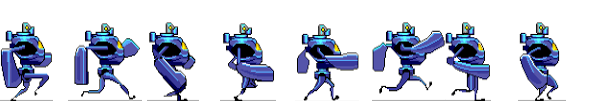
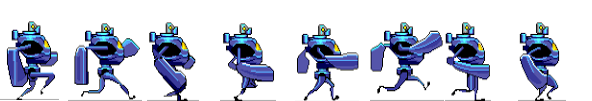
remove comments and change sprite dimensions

Changed region(s): [[0.0, 0.2079, 0.1216, 1.0], [0.6081, 0.2079, 0.7601, 0.9208]]

diff --git a/cmpsc488/botbattleapp/nodejs_applications/static/javascript/classes.js b/cmpsc488/botbattleapp/nodejs_applications/static/javascript/classes.js
@@ -201,15 +201,15 @@ var GameBoard = function(readyCallback) {
     							self.player2StartY, 
     							self.robotWidth, 
     							self.robotHeight, null, null, null, false, imageLoadedCallback),
-    player3 : new drawableImage('static/images/RunningRight.png', 
+    player1Running : new drawableImage('static/images/RunningRight.png', 
     							0, 
     							self.player1StandingSpriteSheetY, 
-    							563, 
+    							592, 
     							self.robotHeight, 
     							self.player1StartX, 
     							self.player1StartY - 100, 
     							74, 
-    							self.robotHeight, null, 15, 8, true, imageLoadedCallback),
+    							self.robotHeight, null, 8, 8, true, imageLoadedCallback),
     /*myRectangle: new drawableRectangle(120, 200, 100, 50, 5)*/
   }
   
@@ -260,7 +260,6 @@ function Animator(gameboard) {
   var animations = {
     move : function(moveEvent, lastUpdateTime, callback) {
       backgroundAnimations();
-      //console.log(gameboard.drawableObjects[moveEvent.objectName]);
       var drawableObject = gameboard.drawableObjects[moveEvent.objectName];
       var time;
       var done;
@@ -280,7 +279,6 @@ function Animator(gameboard) {
           animations.move(moveEvent, time, callback);
         });
       } else {
-        //console.log('animation of', moveEvent, 'complete!')
         callback();
       }
     },
@@ -290,19 +288,14 @@ function Animator(gameboard) {
         var time;
         
         var endX = moveEvent.endingX;
-        //console.log("endx " + endX);
         moveEvent.endingX = drawableObject.x;
-        //console.log("endingx " + moveEvent.endingX);
         
         moveEvent.event = 'move';
         
         animations.move(moveEvent, (new Date()).getTime(), function(){
         	moveEvent.endingX = endX;
-        	//console.log("Moved up");
         	animations.move(moveEvent, (new Date()).getTime(),function(){
         		moveEvent.endingY = drawableObject.y + 100;
-        		//console.log("moved Over");
-        		//console.log("New endingy is " + moveEvent.endingY);
         		animations.move(moveEvent, (new Date()).getTime() , callback)
         	})
         });
@@ -316,15 +309,12 @@ function Animator(gameboard) {
         var time;
         
         var endX = moveEvent.endingX;
-        //console.log("endx " + endX);
         moveEvent.endingX = drawableObject.x;
-        //console.log("endingx " + moveEvent.endingX);
         
         moveEvent.event = 'move';
         
         animations.move(moveEvent, (new Date()).getTime(), function(){
         	moveEvent.endingX = endX;
-        	//console.log("Moved up");
         	animations.move(moveEvent, (new Date()).getTime(),function(){
         		moveEvent.endingY = drawableObject.y + 100;
         		animations.move(moveEvent, (new Date()).getTime() , callback)
@@ -427,7 +417,6 @@ function Animator(gameboard) {
   var updateXPositionLinearlyWithTime = function(drawableObject, moveEvent, lastUpdateTime, speed) {
       var time = (new Date()).getTime();
       var timeDiff = time - lastUpdateTime;
-      //console.log('inUpdateXPosition', drawableObject, moveEvent);
       var backwards = moveEvent.endingX - drawableObject.x < 0;
       
       // pixels / second
@@ -440,8 +429,6 @@ function Animator(gameboard) {
       } else if (!backwards && drawableObject.x >= moveEvent.endingX) {
         drawableObject.x = moveEvent.endingX;
       }
-
-      //console.log('moved rectangle', drawableObject.x);
 
       return time;
     }
@@ -458,7 +445,6 @@ function Animator(gameboard) {
   var updateYPositionLinearlyWithTime = function(drawableObject, moveEvent, lastUpdateTime, speed) {
       var time = (new Date()).getTime();
       var timeDiff = time - lastUpdateTime;
-      //console.log('inUpdateXPosition', drawableObject, moveEvent);
       var up = moveEvent.endingY - drawableObject.y < 0;
       
       // pixels / second
@@ -471,8 +457,6 @@ function Animator(gameboard) {
       } else if (!up && drawableObject.y >= moveEvent.endingY) {
         drawableObject.y = moveEvent.endingY;
       }
-
-      //console.log('moved rectangle', drawableObject.y);
 
       return time;
     }
